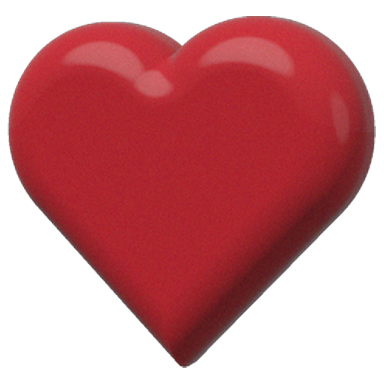
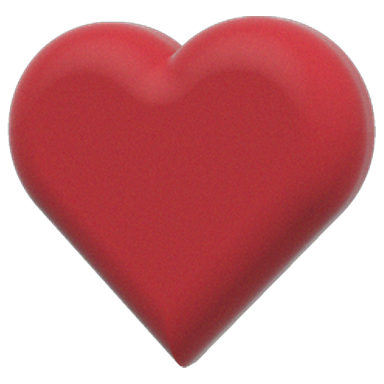
Rendered cards lit as Evan Amos lights; Ports is the IBM 5151
raymarch's AMOS lighting (big soft light, lifted shadows, no rim, a
white room) for every rendered card, and Ports' monitor modelled on the
IBM 5151 from photographs: frame, darker recessed panel, tube at the
left, nameplate (blank) and two knobs at the right, vents on top, feet.

Claude-Session: https://claude.ai/code/session_01TGGsTE1DNkb6MQqq6tNzFj

diff --git a/tools/genportscard.py b/tools/genportscard.py
@@ -43,30 +43,32 @@ SS = 4
 
 
 def mark(d, cx, cy, fill, cut, scale=1.0):
-    """A monitor in flat shapes, about 300x330 at scale 1, ink centred on
-    (cx, cy): the case with its screen knocked out, a prompt and a cursor on
-    the screen, a drive slot in the chin, the neck and the foot."""
+    """The monitor in flat shapes, about 300x300 at scale 1, ink centred on
+    (cx, cy): the IBM 5151's box (no stand: it sat on the PC), its screen
+    knocked out of the upper bezel with a prompt and cursor on it, its two
+    knobs knocked out of the chin at the right, and its two feet."""
     k = SS * scale
-    bw, bh = 300 * k, 236 * k
-    x0, y0 = cx - bw / 2, cy - 165 * k
-    d.rounded_rectangle([x0, y0, x0 + bw, y0 + bh], radius=30 * k, fill=fill)
-    # the screen, knocked out
-    sx0, sy0, sx1, sy1 = x0 + 30 * k, y0 + 28 * k, x0 + bw - 30 * k, y0 + bh - 62 * k
-    d.rounded_rectangle([sx0, sy0, sx1, sy1], radius=18 * k, fill=cut)
+    bw, bh = 310 * k, 262 * k
+    x0, y0 = cx - bw / 2, cy - 150 * k
+    d.rounded_rectangle([x0, y0, x0 + bw, y0 + bh], radius=22 * k, fill=fill)
+    # the screen, knocked out, a deep chin under it
+    sx0, sy0, sx1, sy1 = x0 + 34 * k, y0 + 30 * k, x0 + bw - 34 * k, y0 + bh - 70 * k
+    d.rounded_rectangle([sx0, sy0, sx1, sy1], radius=26 * k, fill=cut)
     # a prompt: a chevron, then a cursor block
     px, py = sx0 + 34 * k, sy0 + 40 * k
     t = 13 * k
     d.polygon([(px, py), (px + 30 * k, py + 26 * k), (px, py + 52 * k),
                (px, py + 52 * k - t * 1.4), (px + 30 * k - t * 1.1, py + 26 * k), (px, py + t * 1.4)], fill=fill)
     d.rectangle([px + 48 * k, py + 38 * k, px + 92 * k, py + 52 * k], fill=fill)
-    # a drive slot in the chin, knocked out
-    d.rounded_rectangle([x0 + bw - 132 * k, y0 + bh - 38 * k, x0 + bw - 40 * k, y0 + bh - 26 * k],
-                        radius=6 * k, fill=cut)
-    # the neck and the foot
-    ny = y0 + bh
-    d.polygon([(cx - 52 * k, ny - 2 * k), (cx + 52 * k, ny - 2 * k), (cx + 36 * k, ny + 44 * k),
-               (cx - 36 * k, ny + 44 * k)], fill=fill)
-    d.rounded_rectangle([cx - 118 * k, ny + 40 * k, cx + 118 * k, ny + 70 * k], radius=14 * k, fill=fill)
+    # brightness and contrast, two knobs at the chin's right
+    for dx in (78, 38):
+        r = 13 * k
+        kx, ky = x0 + bw - dx * k, y0 + bh - 35 * k
+        d.ellipse([kx - r, ky - r, kx + r, ky + r], fill=cut)
+    # the feet
+    for fx in (0.16, 0.84):
+        d.rounded_rectangle([x0 + bw * fx - 34 * k, y0 + bh - 4 * k, x0 + bw * fx + 34 * k, y0 + bh + 16 * k],
+                            radius=6 * k, fill=fill)
 
 
 def classic():
@@ -77,10 +79,23 @@ def classic():
 
 
 # ---- fancy ----------------------------------------------------------------
+#
+# The IBM 5151, the Personal Computer Display (1981), as photographs of it
+# show it: the monochrome monitor that sat on top of the IBM PC, showing the
+# Monochrome Display Adapter's text in green P39 phosphor - where a DOS prompt
+# in green belongs. A wide box in IBM's pale warm grey, its front edges
+# deeply rounded; a broad frame round a recessed panel a shade darker, the
+# tube set into its left and, at its right, a strip with the nameplate and
+# two black knobs (brightness, contrast), each with its white mark; a field of
+# small vent holes across the top behind the front; small dark feet. The
+# nameplate is blank: the shelf names no maker. Lit as AMOS lights (raymarch).
 
-M = rm.rot(4, -26, 0)
-BEIGE = (212, 204, 182)
-SW, SH = 1.46, 1.08          # the tube's face, half sizes
+M = rm.rot(6, -30, 0)
+PEARL = (222, 218, 203)
+PANEL = (203, 198, 181)
+SW, SH = 1.24, 0.96          # the tube's face, half sizes
+SX, SY = -0.30, 0.02         # its middle, left of the case's
+FZ = 0.78                    # the case's front
 
 
 def screen_picture():
@@ -109,42 +124,67 @@ def screen_picture():
     return Image.fromarray(np.clip(a, 0, 255).astype(np.uint8))
 
 
-SCREEN = rm.Tex(screen_picture(), -SW, SW, -SH + 0.42, SH + 0.42, base=(14, 22, 16))
+SCREEN = rm.Tex(screen_picture(), SX - SW, SX + SW, SY - SH, SY + SH, base=(14, 22, 16))
 
 
 def frame(p):
     return rm.local(p, (0, 0, 0), M)
 
 
-MATS = [rm.Mat(BEIGE, gloss=0.38, spec=0.5),                                 # 0 case
-        rm.Mat(lambda p: SCREEN(frame(p)), gloss=0.82, spec=0.6, emit=0.9),  # 1 the tube's glass
-        rm.Mat((34, 34, 38), gloss=0.3, spec=0.3),                           # 2 drive slot, vents
-        rm.Mat((90, 220, 110), gloss=0.4, spec=0.4, emit=1.0)]               # 3 power light
+def knob_face(q):
+    """black, with a white mark at one o'clock, as the 5151's knobs have"""
+    out = np.broadcast_to((np.array([24, 24, 26], np.float64) / 255.0) ** 2.2, q.shape).copy()
+    for ky in (-0.36, -0.76):
+        dx, dy = q[:, 0] - 1.36, q[:, 1] - ky
+        mark = (np.abs(dx * 0.5 - dy * 0.866) < 0.02) & (dx * 0.866 + dy * 0.5 > 0.03) & \
+               (dx * 0.866 + dy * 0.5 < 0.11) & (q[:, 2] > FZ - 0.2)
+        out[mark] = (np.array([235, 235, 230]) / 255.0) ** 2.2
+    return out
+
+
+MATS = [rm.Mat(PEARL, gloss=0.30, spec=0.4),                                 # 0 case
+        rm.Mat(lambda p: SCREEN(frame(p)), gloss=0.85, spec=0.5, emit=0.9),  # 1 the tube's glass
+        rm.Mat((48, 50, 48), gloss=0.25, spec=0.3),                          # 2 the step round the tube, vent holes
+        rm.Mat(lambda p: knob_face(frame(p)), gloss=0.45, spec=0.5),         # 3 knobs
+        rm.Mat(PANEL, gloss=0.28, spec=0.35),                                # 4 the recessed panel
+        rm.Mat((178, 176, 168), gloss=0.5, spec=0.6),                        # 5 nameplate
+        rm.Mat((40, 40, 42), gloss=0.2, spec=0.2)]                           # 6 feet
 
 
 def scene(p):
     q = frame(p)
-    # the front: a deep rounded box; the back tapers like a tube's
-    front = rm.box(q - [0, 0.2, 0.25], (1.85, 1.62, 0.42), 0.16)
-    t = np.clip((0.0 - q[..., 2]) / 1.4, 0, 1)
-    qb = q - [0, 0.28, -0.75]
-    hb = np.stack([1.85 - 0.55 * t - 0.22, 1.5 - 0.45 * t - 0.22, np.full_like(t, 0.62 - 0.22)], -1)
-    db = np.abs(qb) - hb
-    back = (np.linalg.norm(np.maximum(db, 0), axis=-1) + np.minimum(db.max(-1), 0)) - 0.22
-    case = rm.smin(front, back, 0.12)
-    # the bezel's opening, and the tube's face a little inside, bulging
-    win = rm.box(q - [0, 0.42, 0.68], (SW + 0.04, SH + 0.04, 0.12), 0.1)
-    case = np.maximum(case, -win)
-    bulge = 0.06 * (1 - ((q[..., 0] / SW) ** 2 + ((q[..., 1] - 0.42) / SH) ** 2) * 0.5)
-    tube = rm.box(q - [0, 0.42, 0.56], (SW + 0.02, SH + 0.02, 0.03), 0.08) - bulge
-    # the chin: a drive slot and a power light
-    slot = rm.box(q - [0.85, -1.12, 0.67], (0.46, 0.035, 0.02), 0.01)
-    led = rm.sphere(q - [-1.38, -1.12, 0.66], 0.055)
-    # neck and foot
-    neck = rm.box(q - [0, -1.62, -0.25], (0.55, 0.22, 0.5), 0.08)
-    foot = rm.box(q - [0, -1.9, -0.2], (1.25, 0.09, 0.95), 0.08)
-    case = np.minimum(case, np.minimum(neck, foot))
-    d = np.stack([case, tube, slot, led], -1)
+    # the case: wide and deep, its front edges deeply rounded
+    case = rm.box(q - [0, 0, -0.75], (2.05, 1.42, 1.53), 0.32)
+    # the frame's opening, and the panel set back in it
+    hole = rm.box(q - [0.0, -0.02, FZ], (1.74, 1.12, 0.16), 0.2)
+    case = np.maximum(case, -hole)
+    panel = rm.box(q - [0.0, -0.02, FZ - 0.2], (1.76, 1.14, 0.06), 0.2)
+    # the tube's opening in the panel, a dark step, and the bulging glass
+    tw = rm.box(q - [SX, SY, FZ - 0.14], (SW + 0.06, SH + 0.06, 0.3), 0.2)
+    panel = np.maximum(panel, -tw)
+    case = np.maximum(case, -tw)
+    step = rm.box(q - [SX, SY, FZ - 0.3], (SW + 0.1, SH + 0.1, 0.03), 0.22)
+    step = np.maximum(step, -rm.box(q - [SX, SY, FZ - 0.3], (SW - 0.02, SH - 0.02, 0.2), 0.2))
+    bulge = 0.06 * (1 - (((q[..., 0] - SX) / SW) ** 2 + ((q[..., 1] - SY) / SH) ** 2) * 0.5)
+    tube = rm.box(q - [SX, SY, FZ - 0.32], (SW + 0.02, SH + 0.02, 0.03), 0.2) - bulge
+    # the strip at the right: nameplate and two knobs
+    plate = rm.box(q - [1.36, 0.62, FZ - 0.13], (0.17, 0.12, 0.012), 0.01)
+    knobs = np.minimum(rm.cyl(q - [1.36, -0.36, FZ - 0.08], 0.11, 0.07, 0.025, axis=2),
+                       rm.cyl(q - [1.36, -0.76, FZ - 0.08], 0.11, 0.07, 0.025, axis=2))
+    # vent holes across the top, behind the front
+    gx = ((q[..., 0] + 4) % 0.1) - 0.05
+    gz = ((q[..., 2] + 4) % 0.1) - 0.05
+    holes = np.maximum(np.hypot(gx, gz) - 0.022,
+                       np.maximum(np.abs(q[..., 0]) - 1.55, np.abs(q[..., 2] - 0.0) - 0.42))
+    holes = np.maximum(holes, np.abs(q[..., 1] - 1.42) - 0.03)
+    case = np.maximum(case, -holes)
+    # small dark feet at the front corners and back
+    feet = np.full(q.shape[:-1], 1e9)
+    for fx in (-1.6, 1.6):
+        for fz in (0.35, -1.9):
+            feet = np.minimum(feet, rm.cyl(q - [fx, -1.47, fz], 0.14, 0.05, 0.02, axis=1))
+    d = np.stack([case, tube, step,
+                  knobs, panel, plate, feet], -1)
     return d.min(-1), d.argmin(-1)
 
 
@@ -152,4 +192,4 @@ scene.mats = MATS
 
 if __name__ == "__main__":
     classic()
-    rm.render(scene, FANCY, cam=(0.0, 1.2, 9.5), look=(0, -0.05, 0), fov=28)
+    rm.render(scene, FANCY, cam=(0.0, 2.6, 9.6), look=(0, -0.15, -0.5), fov=29)

diff --git a/tools/raymarch.py b/tools/raymarch.py
@@ -12,6 +12,8 @@ is: longest side 96% of a 384 frame, centred.
 
 Everything is numpy over all the camera's rays at once.
 """
+import os
+
 import numpy as np
 from PIL import Image
 
@@ -105,6 +107,26 @@ FILL = norm(np.array([0.8, 0.15, 0.6]))
 RIM = norm(np.array([0.3, 0.5, -0.8]))
 
 
+# How the studio lights a card. The set's first renders had a strong key, a
+# rim and a dark room: drama no photograph in the set has. AMOS lights them as
+# Evan Amos lights the consoles they sit beside (res/cards/fancy/SOURCE.md):
+# big soft even light, high key, shadows that only just say where the floor
+# is, no rim, and a bright room for anything glossy to show. RM_LIGHT=studio
+# in the environment draws a card the old way, to compare.
+STUDIO = dict(key=1.15, fill=0.30, amb=0.22, rim=0.35, shadow=0.0, spec=1.0, room=0.0)
+AMOS = dict(key=0.80, fill=0.55, amb=0.62, rim=0.0, shadow=0.55, spec=0.55, room=1.0)
+LIGHT = STUDIO if os.environ.get("RM_LIGHT") == "studio" else AMOS
+
+
+def amos_room(d):
+    """A white sweep: bright above and behind, a soft grey floor, the key's
+    softbox wide and gentle"""
+    y = d[..., 1]
+    base = np.where(y > 0, 0.85 + 0.25 * y, 0.45 + 0.25 * (1 + y))
+    sb = np.clip((np.sum(d * KEY, -1) - 0.70) / 0.25, 0, 1) * 0.9
+    return (base + sb)[..., None] * np.array([1.0, 1.0, 1.01])
+
+
 def studio(d):
     """What a glossy surface reflects: a dim ceiling and a dark floor, a big
     softbox up and to the left, a strip light to the right."""
@@ -113,6 +135,9 @@ def studio(d):
     sb = np.clip((np.sum(d * KEY, -1) - 0.86) / 0.06, 0, 1) * 3.2
     strip = np.clip((np.sum(d * FILL, -1) - 0.93) / 0.04, 0, 1) * 1.1
     return (base + sb + strip)[..., None] * np.array([1.0, 1.0, 1.02])
+
+
+_studio0 = studio      # a card that sets its own room keeps it
 
 
 # ---- rendering -----------------------------------------------------------------
@@ -166,6 +191,8 @@ def render(scene, out, size=384, ss=3, cam=(0, 0.6, 9.0), look=(0, 0, 0), fov=26
         sh = np.minimum(sh, 10 * h / tt)
         tt += np.clip(h, 0.01, 0.25)
     sh = np.clip(sh, 0, 1) ** 1.5
+    # AMOS: shadows lifted, as a big soft source leaves them
+    sh = LIGHT["shadow"] + (1 - LIGHT["shadow"]) * sh
 
     # ambient occlusion along the normal
     ao = np.zeros(len(p))
@@ -187,14 +214,14 @@ def render(scene, out, size=384, ss=3, cam=(0, 0.6, 9.0), look=(0, 0, 0), fov=26
         f0 = alb if m.metal else np.full_like(alb, 0.04)
         fres = f0 + (1 - f0) * ((1 - ndv) ** 5)[:, None]
         rough = 1 - m.gloss
-        diff = (np.clip(np.sum(nn * KEY, -1), 0, 1) * sh[s] * 1.15
-                + np.clip(np.sum(nn * FILL, -1), 0, 1) * 0.30
-                + (0.5 + 0.5 * nn[:, 1]) * 0.22 * ao[s])
+        diff = (np.clip(np.sum(nn * KEY, -1), 0, 1) * sh[s] * LIGHT["key"]
+                + np.clip(np.sum(nn * FILL, -1), 0, 1) * LIGHT["fill"]
+                + (0.5 + 0.5 * nn[:, 1]) * LIGHT["amb"] * ao[s])
         hk = norm(KEY + vv)
         shin = 2 + 600 * m.gloss ** 3
-        spk = np.clip(np.sum(nn * hk, -1), 0, 1) ** shin * (shin + 8) / 60 * sh[s]
-        rim = np.clip(np.sum(nn * RIM, -1), 0, 1) ** 2 * 0.35
-        env = studio(refl)
+        spk = np.clip(np.sum(nn * hk, -1), 0, 1) ** shin * (shin + 8) / 60 * sh[s] * LIGHT["spec"]
+        rim = np.clip(np.sum(nn * RIM, -1), 0, 1) ** 2 * LIGHT["rim"]
+        env = amos_room(refl) if LIGHT["room"] and studio is _studio0 else studio(refl)
         # rougher surfaces see a blurred, dimmer studio
         env = env * (1 - rough * 0.65) + rough * 0.65 * 0.25
         dcol = alb * (diff + rim)[:, None] * (0.0 if m.metal else 1.0)
